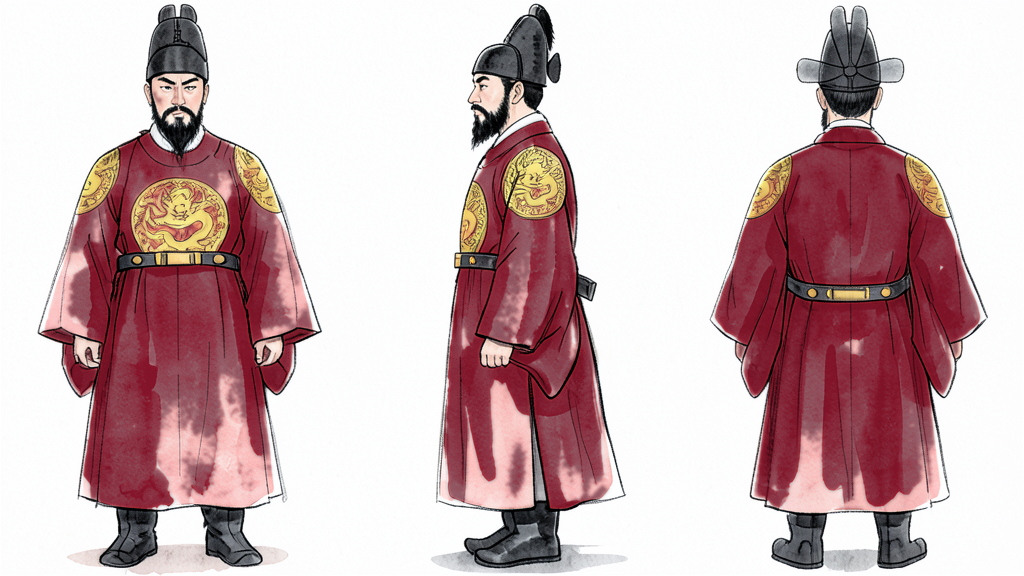
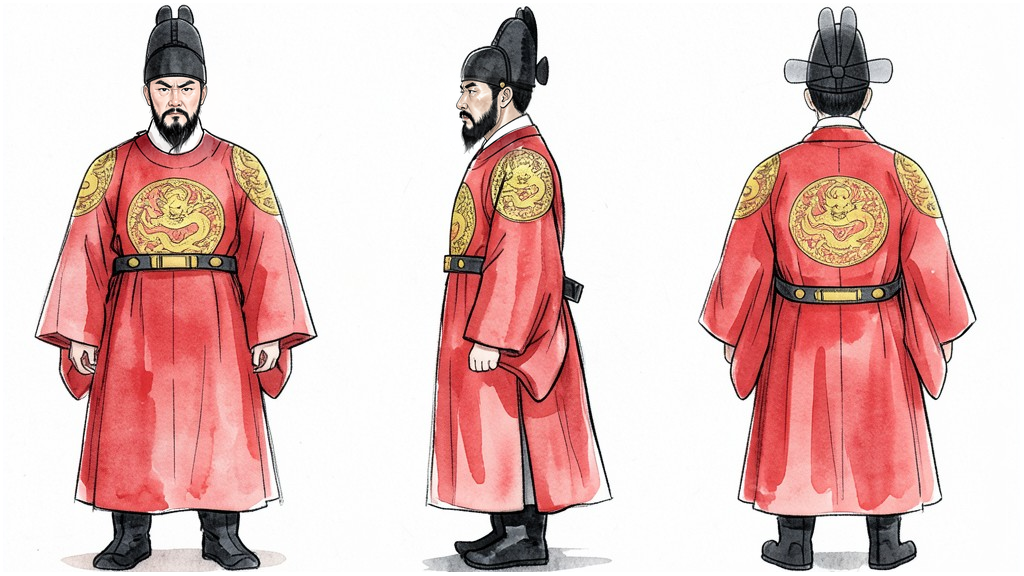
왕 모습은 기본_왕 시트(사용자 선택 풀세트) 그대로: 곤룡포 색·익선관 모양, 태종 시트는 얼굴만 바꿔 새로
Claude-Session: https://claude.ai/code/session_01HCMiuvaPhF31KT9z7AdLXs

diff --git a/캐릭터시트_만들기.py b/캐릭터시트_만들기.py
@@ -26,9 +26,9 @@ VIEWS = {"animal": "side view, front view, back view, full body, standing on all
          "spirit": "front view, side view, back view, full body, standing"}
 # 그림 모델은 한국 옷 이름을 몰라 중국·일본 옷으로 그림 → 이름이 나오면 모양을 풀어 쓴 설명을 붙임 (2026-10-31 첫 시트에서 사모가 고깔, 단령이 여밈 옷으로 나옴)
 KO_COSTUME = {
-    "ikseongwan": "the king's ikseongwan cap = a black two-tiered cap (low rounded front part, higher back part with two small rounded lobes on top, no brim) with two flat semi-transparent black gauze wings sticking straight out to the LEFT and RIGHT from the back of the cap, clearly visible in the front view and the back view",
+    "ikseongwan": "the king's ikseongwan cap = exactly the black cap of the king in the reference sheet 등장인물/조선/기본_왕.png (two small rounded lobes on top seen from the front; from the back two flat see-through wings out to the sides)",
     "samo": "samo = a black two-tiered gauze official cap (low front part, higher back part, no brim) with two thin flat oval wings attached at the back that stick straight out to the LEFT and RIGHT like ears, clearly visible in the front view and the back view",
-    "gonryongpo": "gonryongpo = the king's deep crimson-red robe (daehong: rich dark red like red wine, not orange, not pink) with a ROUND neckline, round gold badges of a five-clawed dragon on the chest, the back and both shoulders, a stiff jade belt hanging loosely around the waist, black boots",
+    "gonryongpo": "gonryongpo = the king's bright crimson-red robe with a ROUND neckline, round gold badges of a five-clawed dragon on the chest, the back and both shoulders, a stiff jade belt hanging loosely around the waist, black boots",
     "dallyeong": "dallyeong = an official robe with a ROUND neckline (not a crossed collar), wide sleeves, a square embroidered rank badge (hyungbae) on the chest and back showing cranes for civil officials or a tiger for military officials, never letters, a stiff belt hanging loosely",
     "gat": "gat = a black wide flat round brim with a tall narrow cylindrical crown, made of see-through horsehair, tied under the chin with black strings, the topknot visible through the crown (not a western fedora, not a conical straw hat)",
     "topknot": "sangtu topknot = hair pulled up and tied in a small tight bun on the top of the head, a thin black horsehair headband around the forehead (not a Japanese chonmage, no shaved forehead)",

diff --git a/shorts_novel_maker_supertonic.py b/shorts_novel_maker_supertonic.py
@@ -3442,7 +3442,7 @@ def make_ai_images(model, category, title, story, n, s, media_dir, log, cancel=N
                     # 모자는 인물과 한 몸으로 (사용자 제안 2026-11-01): 시트 앞모습 옆에 그 사람 모자를 붙인 한 장을 기준 그림으로 → 모자가 따로 놀지 않음
                     j["prompt"] = (j["prompt"].replace("gauze hat", "brimless cap") + " Each person and the cap shown above him in his reference image are one: "
                                    "he always wears exactly that cap, same shape from every angle (samo: a two-tiered cap with two flat oval wings out to the sides; "
-                                   "ikseongwan: two small rounded lobes on top and two flat see-through black wings sticking out to the left and right from the back, visible from the front too). People face the viewer (front or three-quarter front view).")
+                                   "ikseongwan: exactly the cap of the king in his reference image). People face the viewer (front or three-quarter front view).")
             log("  🖌 그림 모델: FLUX.2 klein (캐릭터 시트 기준 · 인물 장면 한 장 약 2분, 풍경 약 40초)")
         else:
             log(f"  🖌 그림 모델: {'애니·만화(Counterfeit)' if model_ == 'anime' else '일러스트(Dreamshaper)'}" + (" + 수채화 보조" if lora_ else ""))

diff --git a/수묵담채화.md b/수묵담채화.md
@@ -100,7 +100,7 @@
   그림 기획 AI 가 인물마다 cast 의 `base` 를 고르고(없으면 외모 낱말로 짐작, `joseon_base`) 그 기본 시트를 refs 로 넣어 시트를 그림 → 얼굴·나이·수염만 그 인물.
   시트 따로 그리기 `캐릭터시트_만들기.py`(조선 옷 사전 KO_COSTUME), 모음 목록 `등장인물/조선/목록.json`(민화 동물·풍속도 인물·귀신 38), 궁궐 복식 설명 `등장인물/조선/궁궐복식_정리.md`
 - **모자 시트(확정)**: `등장인물/조선/_관모/모자시트.png`(익선관·사모·갓·상투 앞/옆/뒤 + 익선관 장면 좋은 예 + 다른 모자 전립·삿갓·에보시 + 틀린 예: 토끼 귀·옆 날개·갓 챙·뿔 날개·갓이 된 사모). 검수 때 이 틀린 예와 비교. 장면에는 그 인물 모자의 앞모습 `_관모/<익선관|사모|갓|상투>_앞.png` 를 refs 로 함께 넣음
-  ※ 익선관 줄(앞·옆 모습, "좋은 예")은 날개가 위로만 서 있어 틀림(사용자 지적 2026-11-01) → 새 왕 시트를 확인받은 뒤 그 시트로 다시 만듦. 뒷모습(날개가 양옆)이 맞음
+  ※ **왕의 모습은 `등장인물/조선/기본_왕.png`(사용자가 고른 풀세트에서 자른 시트) 그대로**(사용자 결정 2026-11-01): 곤룡포는 그 시트의 밝은 붉은색, 익선관도 그 시트 모양. 왕 인물 시트(태종·세종 등)는 이 시트에서 얼굴만 바꿔 만듦(fixes)
   (왕=익선관, 관복 관리=사모, 도포 양반=갓, 백성 남자=상투, 군사=전립 `전립_앞`, 농민=삿갓 `삿갓_앞`, 일본 사신=에보시 `에보시_앞`).
   **모자는 인물과 한 몸으로**(사용자 제안 2026-11-01): 모자 그림을 따로 넣지 않고, 모자 시트에서 모자만 잘라 낸 띠(`_관모/<모자>_모자만.png`, 앞·옆·뒤)를 시트 앞모습 위에 얹은 한 장(`person_with_hat`, `<시트>_앞_모자.png`)을 기준 그림으로 넣고
   주문에 "each person and the cap shown above him in his reference image are one: he always wears exactly that cap" — make_ai_images 가 자동으로 함 시트는 **앞모습만** 잘라 넣음(`sheet_front`, 옆·뒤가 섞이면 사모가 갓처럼 나옴)
@@ -108,11 +108,11 @@
   · 상투: "Joseon sangtu topknot: hair pulled up and tied in a small tight bun on the top of the head, a thin black horsehair headband (manggeon) around the forehead" — 일본 촌마게 아님
   · 갓: "black wide flat round brim with a tall narrow cylindrical crown, see-through horsehair, tied under the chin with black strings" — 서양 중절모·삿갓 아님
   · 사모: 'hat' 이라는 말을 쓰지 않음 → "black brimless two-tiered samo cap with two flat oval wings sticking out to the left and right" (관복+사모, 도포+갓으로 짝지음)
-  · 익선관(사용자 결정 2026-11-01, 뒷면 기준으로 앞면을 그림): "black brimless two-tiered ikseongwan cap: higher back part with two small rounded lobes on top, and two flat semi-transparent black gauze wings sticking straight out to the left and right from the back, clearly visible in the front view too".
+  · 익선관: 기본_왕 시트와 같은 모양 — 주문에 "the same black ikseongwan cap with the same shape as in the reference image" + 왕 시트 앞모습을 refs 로 (말로 모양을 풀어 쓰면 다르게 나옴)
     정면에 옆 날개가 안 보이면(봉우리만 위로) 불합격 — 처음 만든 왕 시트·모자 시트의 앞·옆 모습이 이렇게 틀렸음
-  · 곤룡포 색: "deep crimson-red royal robe (daehong: a rich dark red like red wine, not orange, not pink, not bright scarlet)" — 주황·분홍·밝은 빨강으로 나오면 불합격(사용자 결정 2026-10-31)
+  · 곤룡포 색: 기본_왕 시트와 같은 밝은 붉은색 + 금색 용 보 (사용자 결정 2026-11-01, 앞서 정한 대홍은 취소)
   · 옷 색·모자를 고칠 때는 프로그램으로 색만 바꾸지 않고 **그 인물 캐릭터 시트(앞모습)와 모자 앞모습을 refs 로 주고** 인물 부분을 다시 그림(fixes, 사용자 결정 2026-11-01).
-    시트가 틀리면 장면이 다 틀리므로 시트부터 고침 — 3편에서 기본_왕·태종·세종 시트가 밝은 빨강이라 왕 장면이 모두 밝은 빨강이었음 → 시트를 대홍으로 고침(2026-11-01)
+    시트가 틀리면 장면이 다 틀리므로 시트부터 고침
   · 검수: 왕·관리가 나오는 그림은 머리와 옷을 잘라 크게 열어 모자 모양·옷 색까지 확인(작은 모음표로 넘기지 않음)
 - 그림 주문에 **'없는 것'을 말하지 않음**(2026-11-01 3편 검수): 'no brim'·'no hat'·'nothing on the ground: no hat' 처럼 쓰면 오히려 챙·모자가 그려짐 →
   있어야 할 모양만 적음('two flat oval wings out to the sides', 'empty bare ground'). 원래 주문서에 '떨어진 갓' 같은 연출이 있으면 문장째 뺌.

diff --git a/등장인물/조선/궁궐복식_정리.md b/등장인물/조선/궁궐복식_정리.md
@@ -6,9 +6,9 @@
 
 | 항목 | 모양 (그림 주문에 쓰는 말) |
 |---|---|
-| 익선관 (왕) | 챙 없는 검은 두 단 모자(앞 낮고 뒤 높음), 뒤 높은 부분 위에 둥근 봉우리 두 개, 뒤에 붙은 얇고 비치는 검은 날개 두 개가 **양옆으로 뻗음 — 앞에서도 보임** (사용자 결정 2026-11-01, 예전 "하늘로 솟음"은 틀림) |
+| 익선관 (왕) | 챙 없는 검은 두 단 모자. **`기본_왕.png` 시트 모양 그대로**(사용자 결정 2026-11-01): 앞에서는 위에 둥근 봉우리 두 개, 뒤에서는 얇고 비치는 날개가 양옆으로 |
 | 사모 (관리·내관) | 같은 두 단 모자, 뒤 아래쪽에 납작한 주걱 모양 날개 두 개가 **양옆으로 수평** (챙 아님) |
-| 곤룡포 (왕) | 대홍색, 둥근 깃(안에 흰 동정), 오조룡(발톱 다섯 용) 둥근 보가 가슴·등·양어깨 네 곳, 옥대(붉은 틀에 흰 옥 장식, 허리에 느슨하게 걸침), 흑화. 태조는 청색 곤룡포 |
+| 곤룡포 (왕) | 밝은 붉은색(기본_왕 시트 그대로, 사용자 결정 2026-11-01), 둥근 깃(안에 흰 동정), 오조룡(발톱 다섯 용) 둥근 보가 가슴·등·양어깨 네 곳, 옥대(붉은 틀에 흰 옥 장식, 허리에 느슨하게 걸침), 흑화. 태조는 청색 곤룡포 |
 | 단령 (관리) | 둥근 깃, 옆에서 끈으로 여밈. 색은 품계에 따라(높은 품계 붉은색, 낮으면 청·흑). 4품 이상 홍단령, 5품 이하 흑단령 |
 | 흉배 | 가슴·등에 네모난 수놓은 판. 문관 = 날짐승(구름 속 흰 학 한 쌍), 무관 = 길짐승(호랑이·표범). 왕은 흉배 대신 둥근 '보' |
 | 면류관·면복 (왕의 최고 예복) | 위에 앞으로 살짝 숙인 검은 평천판, 앞뒤로 구슬 줄 9줄(황제 12), 귀 옆 구슬(충). 구장복(검푸른 겉옷에 아홉 무늬), 붉은 치마, 폐슬·패옥·후수 |
